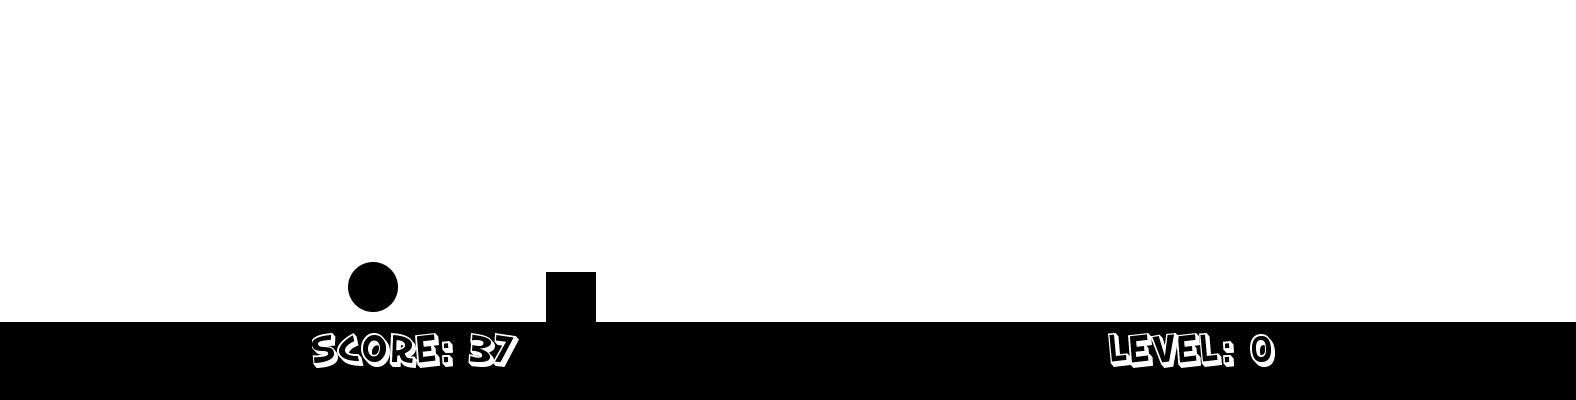
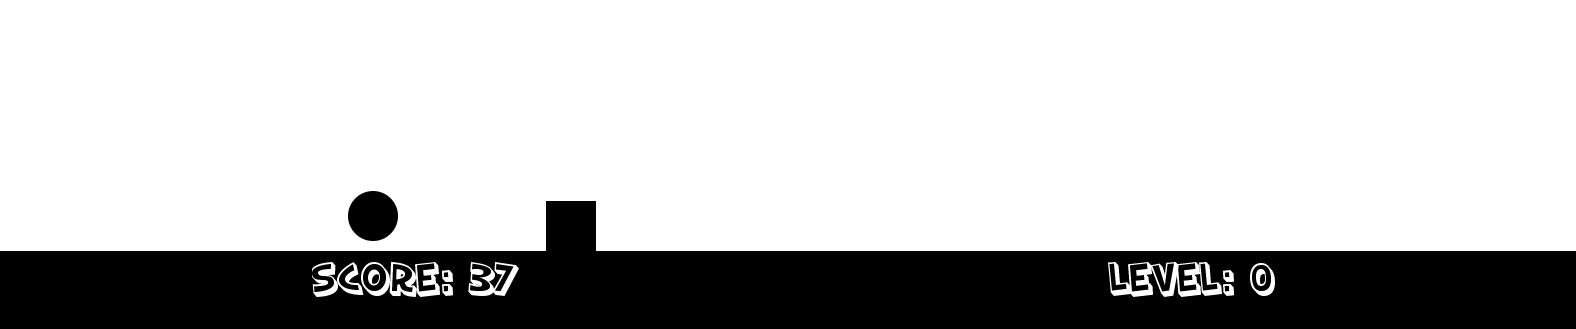
Resizing images, removing s

Changed region(s): [[0.0, 0.5775, 1.0, 0.9422], [0.342, 0.6079, 0.4042, 0.6991]]

diff --git a/projects.html b/projects.html
@@ -116,7 +116,7 @@
 
 	<img src="Images/Projects_Page/gravity_img.jpg"
 		 class="drop_down_img" 
-		 alt="Gravity Img"/>s
+		 alt="Gravity Img"/>
 
 	<img src="Images/Projects_Page/fridge_img.jpg"
 		 class="drop_down_img" 
